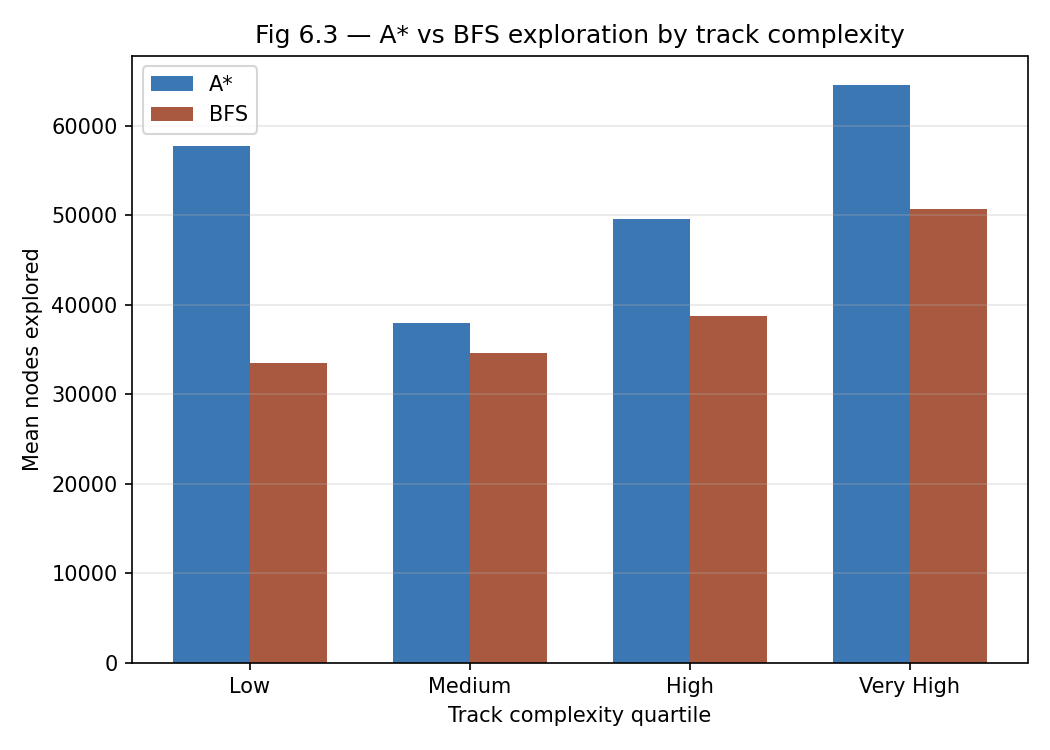
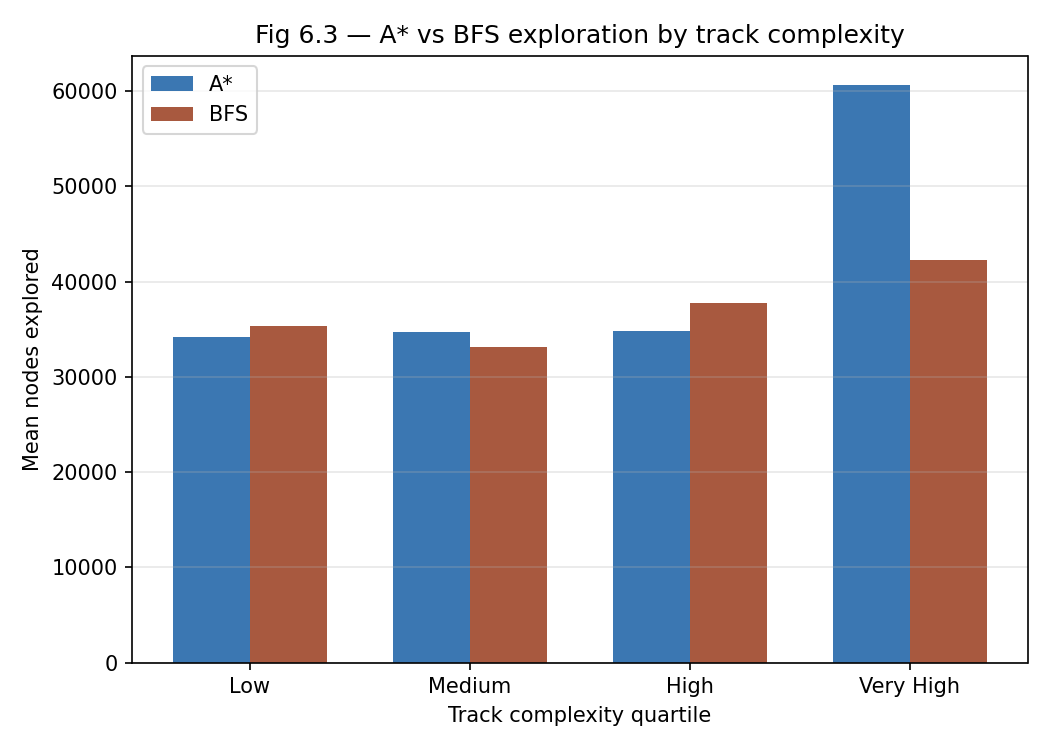
feat: implemented chebyshev distance for admissiblity

diff --git a/solver.py b/solver.py
@@ -74,8 +74,15 @@ class AStarSolver:
         """
         if not self.current_goals:
             return 0.0
-        return min(abs(state.x - gx) + abs(state.y - gy)
-                   for gx, gy in self.current_goals) / 5.0
+        min_dist = float('inf')
+        for (gx, gy) in self.current_goals:
+            # --- CHEBYSHEV DISTANCE ---
+            dist = max(abs(state.x - gx), abs(state.y - gy))
+            if dist < min_dist: 
+                min_dist = dist
+                
+        # admissible because max velocity is 5
+        return min_dist / 5.0
 
     # ── Original single-target searches (unchanged — used by BFS pipeline) ────
 
